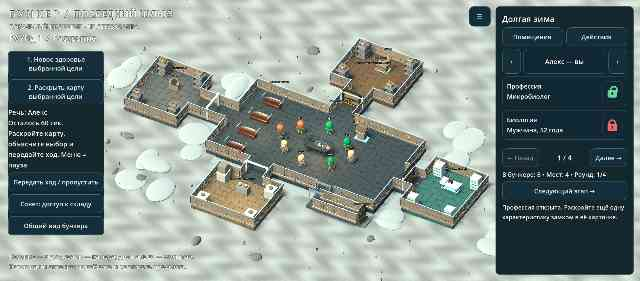
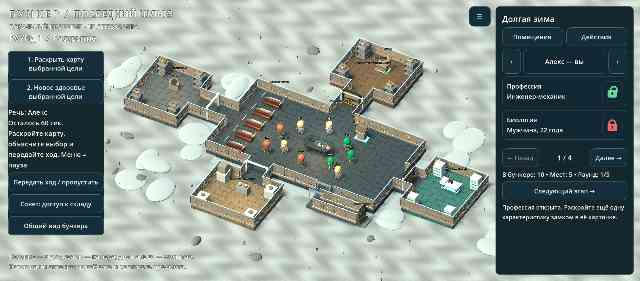
Document Android 20 timed voting and update current previews

diff --git a/tools/install_previews.py b/tools/install_previews.py
@@ -14,7 +14,7 @@ NAMES = dict(SCREENSHOT="bunker", WIDESHOT="wide", MENUSHOT="menu",
              INFECTIONSHOT="infection", MEDICALSHOT="medical", SLEEPSHOT="sleep",
              CHARACTERSHOT="characters", METEORDETAILSHOT="meteor-detail",
              AURORASHOT="solar", COUNCILSHOT="council", FACILITYSHOT="kitchen",
-             ARCHSHOT="architecture-0", ARCHALTSHOT="architecture-17", UPDATESHOT="update", LOADINGSHOT="loading", LOADINGARRIVALSHOT="vault", SKINMALEYOUNGSHOT="skin-male-young", SKINFEMALEYOUNGSHOT="skin-female-young", SKINMALESENIORSHOT="skin-male-senior", SKINFEMALESENIORSHOT="skin-female-senior")
+             ARCHSHOT="architecture-0", ARCHALTSHOT="architecture-17", UPDATESHOT="update", LOADINGSHOT="loading", LOADINGARRIVALSHOT="vault", SKINMALEYOUNGSHOT="skin-male-young", SKINFEMALEYOUNGSHOT="skin-female-young", SKINMALESENIORSHOT="skin-male-senior", SKINFEMALESENIORSHOT="skin-female-senior", VOTESHOT="vote")
 
 
 def install(files, root):
@@ -28,7 +28,7 @@ def install(files, root):
                     continue  # Additional diagnostic views are not retained.
                 parts.setdefault(prefix, {})[int(index)] = chunk
     if set(parts) != set(NAMES):
-        raise ValueError("Need all 23 current previews; missing: " + str(set(NAMES) - set(parts)))
+        raise ValueError("Need all 24 current previews; missing: " + str(set(NAMES) - set(parts)))
     images = {}
     for prefix, chunks in parts.items():
         if sorted(chunks) != list(range(len(chunks))):
@@ -48,7 +48,7 @@ def install(files, root):
         text = doc.read_text()
         text = re.sub(r"-v\d+\.\d+(?=\.jpg)", "", text)
         doc.write_text(text)
-    print("Installed 23 current previews; obsolete copies removed.")
+    print("Installed 24 current previews; obsolete copies removed.")
 
 
 if __name__ == "__main__":

diff --git a/docs/BUILD_STATUS.md b/docs/BUILD_STATUS.md
@@ -1,6 +1,8 @@
 # Проверки и APK
 
-**Текущая версия 0.19:** [APK](https://github.com/AlfaGideon/Bunker/releases/download/android-19/Bunker-Posledniy-Shlyuz-19.apk), [Release](https://github.com/AlfaGideon/Bunker/releases/tag/android-19), [Godot CI](https://github.com/AlfaGideon/Bunker/actions/runs/40737028217), [подписанная сборка](https://github.com/AlfaGideon/Bunker/actions/runs/40737028163), [подробности](ITERATION_19.md). Проверены шесть скинов, сохранение, позы и походка, пол и возраст биологии и настоящие рендеры четырёх новых вариантов. Подпись совпадает с 0.18; нужна физическая проверка на BL9000.
+**Текущая версия 0.20:** [APK](https://github.com/AlfaGideon/Bunker/releases/download/android-20/Bunker-Posledniy-Shlyuz-20.apk), [Release](https://github.com/AlfaGideon/Bunker/releases/tag/android-20), [Godot CI](https://github.com/AlfaGideon/Bunker/actions/runs/40753093607), [подписанная сборка](https://github.com/AlfaGideon/Bunker/actions/runs/40753093601), [подробности](ITERATION_20.md). Проверены обсуждение 60 секунд, голосование 20 секунд, голос за себя при пропуске, повторное голосование, десять участников, рендер и полное прохождение партии. Сертификат совпадает с 0.19; физическая проверка BL9000 ещё нужна.
+
+**Историческая версия 0.19:** [APK](https://github.com/AlfaGideon/Bunker/releases/download/android-19/Bunker-Posledniy-Shlyuz-19.apk), [Release](https://github.com/AlfaGideon/Bunker/releases/tag/android-19), [Godot CI](https://github.com/AlfaGideon/Bunker/actions/runs/40737028217), [подписанная сборка](https://github.com/AlfaGideon/Bunker/actions/runs/40737028163), [подробности](ITERATION_19.md). Проверены шесть скинов, сохранение, позы и походка, пол и возраст биологии и настоящие рендеры четырёх новых вариантов. Подпись совпадает с 0.18; нужна физическая проверка на BL9000.
 
 **Историческая версия 0.18:** [APK](https://github.com/AlfaGideon/Bunker/releases/download/android-18/Bunker-Posledniy-Shlyuz-18.apk), [Release](https://github.com/AlfaGideon/Bunker/releases/tag/android-18), [Godot CI](https://github.com/AlfaGideon/Bunker/actions/runs/40733222132), [подписанная сборка](https://github.com/AlfaGideon/Bunker/actions/runs/40733221901), [подробности](ITERATION_18.md). Проверены экранное движение леса и костра, появление круглой двери, кадры кат-сцены и сборки. Подпись совпадает с 0.17. Необходима физическая проверка на BL9000.
 

diff --git a/docs/ITERATION_20.md b/docs/ITERATION_20.md
@@ -5,3 +5,9 @@
 В локальном прототипе остальные участники — тестовые сценарии, а не сетевые игроки. Их голоса выбираются локально. Выбывший наблюдатель видит ход голосования, но не голосует. Пауза через игровое меню по-прежнему приостанавливает игровые таймеры; на самом экране голосования клавиша назад не открывает меню. На десяти участниках карточки переключаются страницами без вертикальной прокрутки.
 
 Проверены обе продолжительности, автоматический переход, собственный голос на пропуске и по истечении времени, возможность собственного исключения, таймер повторного голосования, недоступность посторонних кандидатов, пагинация, рендер и полное прохождение партии. Установка и касания на физическом BL9000 требуют проверки.
+
+## Публикация
+
[1 lines of base64/hex data omitted]
+
+![Поле голосования](previews/vote.jpg)

diff --git a/README.md b/README.md
@@ -11,7 +11,15 @@
 
 Направление прототипа: Godot 4, стилизованное 3D с камерой сверху под углом и карточным 2D-интерфейсом; целевая платформа — Android. Подключены 3D-модели Quaternius (CC0); источники и лицензии — в [THIRD_PARTY.md](THIRD_PARTY.md).
 
-## Текущий APK — 0.19: выбор фигурки персонажа
+## Текущий APK — 0.20: обсуждение и голосование
+
+[**Скачать APK 0.20**](https://github.com/AlfaGideon/Bunker/releases/download/android-20/Bunker-Posledniy-Shlyuz-20.apk) · [Release](https://github.com/AlfaGideon/Bunker/releases/tag/android-20) · [Подробности](docs/ITERATION_20.md)
+
+После всех речей — **60 секунд обсуждения**, затем в центре появляется голосование на **20 секунд**. Пропуск или истечение времени означает **голос за себя**. При ничьей проводится повторное голосование. Остальные участники пока локальные тестовые персонажи; сетевой игры нет. Проверены таймеры, собственное исключение, повторное голосование и поле на десять участников. Физическая проверка на BL9000 ещё нужна.
+
+![Поле голосования](docs/previews/vote.jpg)
+
+## Предыдущий APK — 0.19: выбор фигурки персонажа
 
 [**Скачать APK 0.19**](https://github.com/AlfaGideon/Bunker/releases/download/android-19/Bunker-Posledniy-Shlyuz-19.apk) · [Release](https://github.com/AlfaGideon/Bunker/releases/tag/android-19) · [Подробнее](docs/ITERATION_19.md)
 

diff --git a/docs/RUNNING.md b/docs/RUNNING.md
@@ -1,4 +1,4 @@
-# Запуск локального прототипа — 0.19
+# Запуск локального прототипа — 0.20
 
 ## Исходники
 
@@ -10,6 +10,8 @@
 Подготовка 0.18: меню плавно уезжает, персонаж встаёт у костра и бежит вправо; камера следует за ним, а костёр и лес уходят влево. Справа появляется круглая дверь убежища. Можно отменить вход, а когда ресурсы готовы — пропустить ролик. Уменьшение движения отключает путь.
 
 Выбор 0.19: в разделе «Персонаж» листайте варианты стрелками и сохраните профиль. Два прежних варианта сохранены, добавлены молодые и пожилые мужские и женские образы. После раскрытия биологии внешность зависит от пола и возраста карточки.
+
+Голосование 0.20: после речей 60 секунд общего обсуждения, затем центральное поле на 20 секунд. При пропуске или истечении времени голос засчитывается за себя. При ничьей идёт повторное голосование. Остальные участники локальные, не онлайн-игроки.
 
 ## Управление
 
